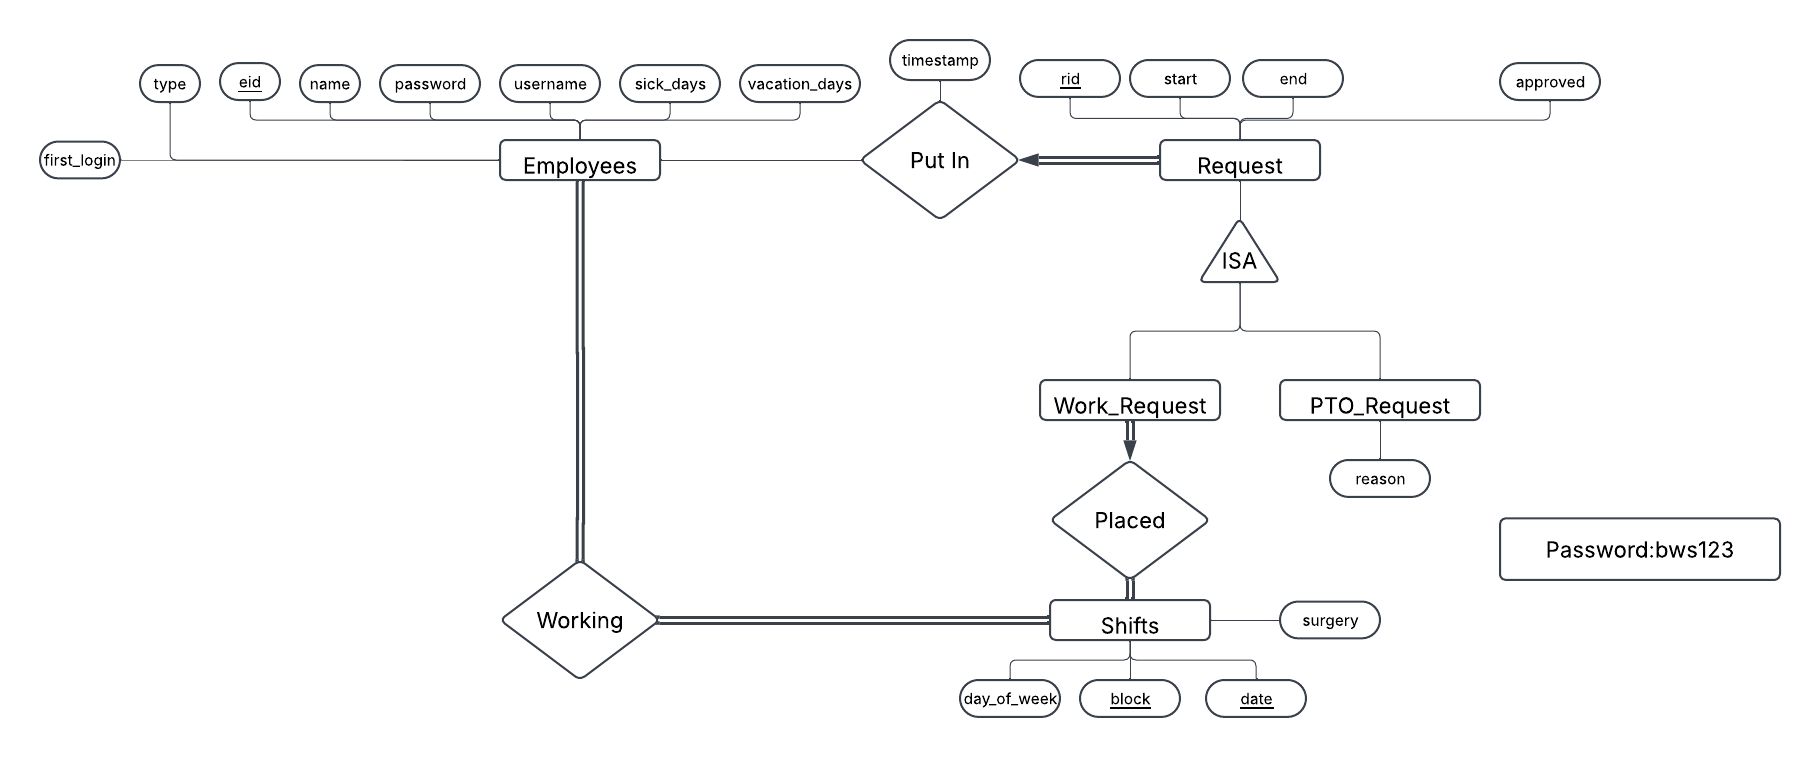
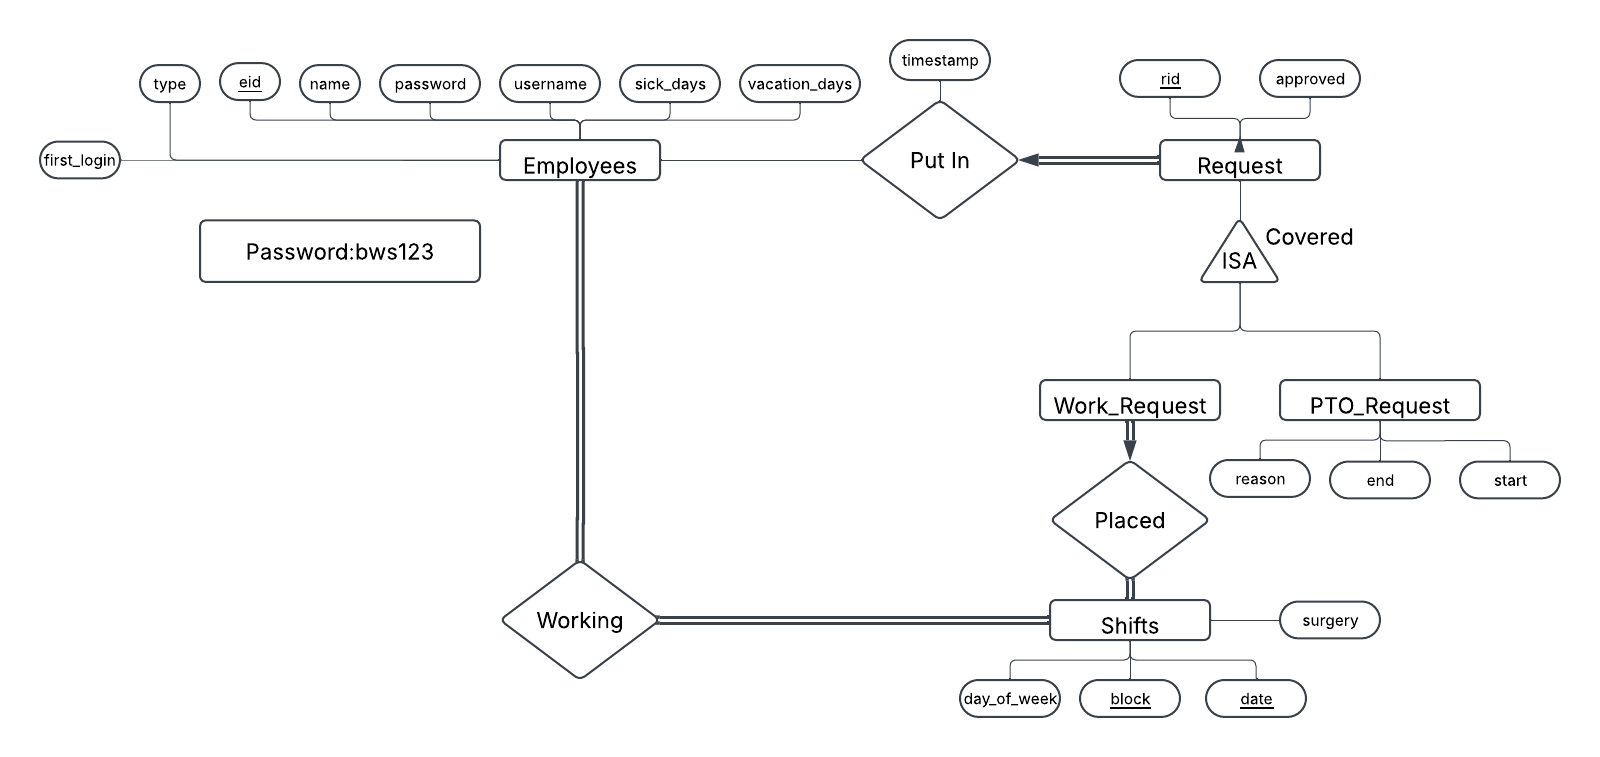
Database updates

diff --git a/SubmissionMaterials/Assumptions.md b/SubmissionMaterials/Assumptions.md
@@ -3,3 +3,4 @@
 - Every doctor is a surgeon
 - Admin is separate from the two employee types
 - Early Morning are the only Surgery Shifts
+- The 30 employees don't need to exist in the database to begin with; its just a capacity for the site
